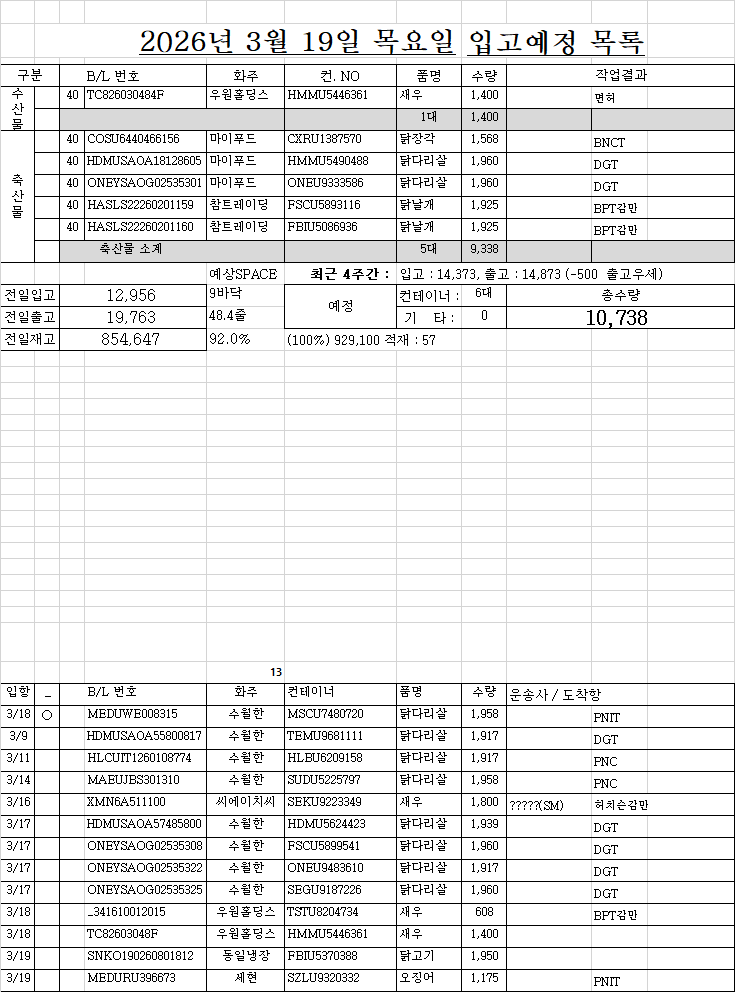
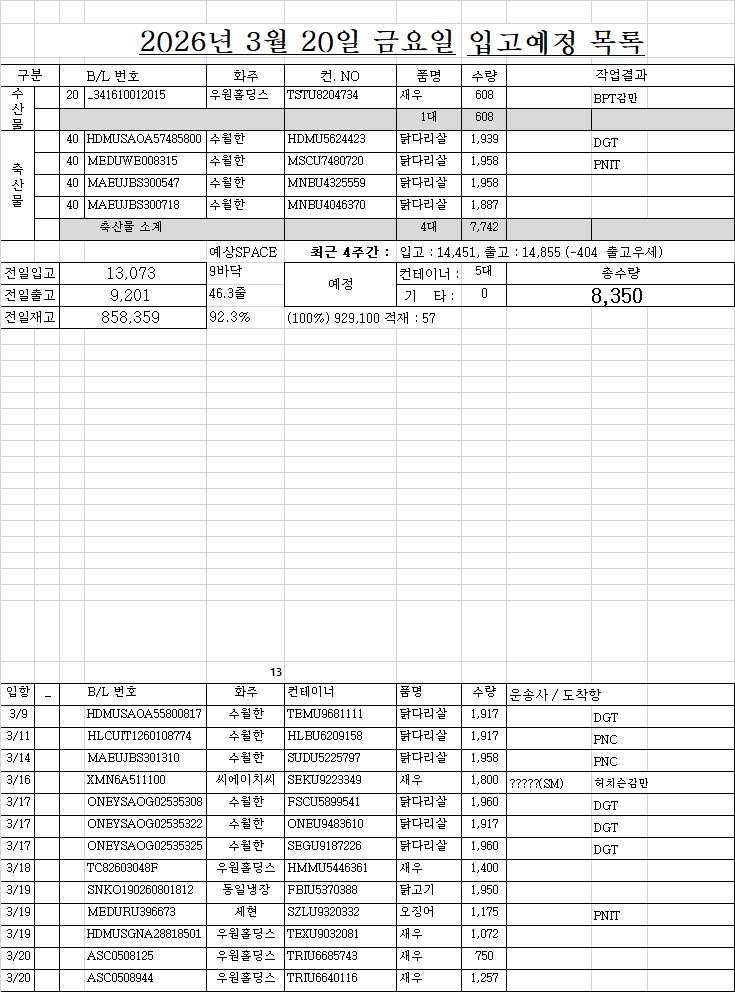
SDFSF

diff --git a/list.html b/list.html
@@ -160,46 +160,50 @@
 </div>
 <!-- ★★★★★★ 따로 빼 놔야한다. 복붙하면 첫칸 비어도 되는데, 여기서는 첫칸비우면 당겨진다. -->
 <!-- ★ 엑셀범위를 브라우저 textarea에 붙여넣으면 첫셀 비어도 제대로 되는데... HTML에 붙여놓은 자료는 처음셀이 비어있으면 당겨짐 -->
-<div class="d-none" id="원본text_리스트1부터w요약열까지">작성	면허	B/LNO.	화주	컨테이너NO.	품명	수량	반입NO.	입항일	구분	도착일	도착시간	구분	운.도VBA	03/18 수 16:30	화찰BL	화찰 선명	화물관리번호	화찰수량	화찰중량	화찰입항	리스트시트기준열	
-1	○	TC826030484F	우원홀딩스	HMMU5446361	새우	1,400 	면허	3/18	1						TC826030484F	HYUNDAI DYNASTY	26HDMUA139I-7021-0001	1,400 	15,680.00 	2026.03.18	03/18 수 16:30	
-1	○	COSU6440466156	마이푸드	CXRU1387570	닭장각	1,568 	BNCT	3/17	2				BNCT	(주)이지트랜스, CY : 동원글로벌터미널부산(주), 컨진행 : 보세운송 신고 수리, 선사 : 코스코쉬핑한국(주)	COSU6440466156	QI YUN HE	26COHEY530I-9018-	1,568 	24,304.00 	2026.03.17	조회정보	3줄
-1	○	HDMUSAOA18128605	마이푸드	HMMU5490488	닭다리살	1,960 	DGT	3/17	2				DGT	(주)이지트랜스, CY : 동원글로벌터미널부산(주), 컨진행 : 보세운송 신고 수리, 선사 : 오션네트워크익스프레스코리아(주)	HDMUSAOA18128605	MOL EARNEST	26ONEY0337I-7013-	1,960 	24,500.00 	2026.03.17	적재	57
-1	○	ONEYSAOG02535301	마이푸드	ONEU9333586	닭다리살	1,960 	DGT	3/17	2				DGT	(주)이지트랜스, CY : 동원글로벌터미널부산(주), 컨진행 : 반입완료, 선사 : 오션네트워크익스프레스코리아(주)	ONEYSAOG02535301	MOL EARNEST	26ONEY0337I-5107-	1,960 	24,500.00 	2026.03.17	4,617 	3줄
-1	○	HASLS22260201159	참트레이딩	FSCU5893116	닭날개	1,925 	BPT감만	3/18	2				BPT감만	면허?, CY : 신선대감만터미널(주) 감만CY, 컨진행 : 하선신고 수리완료, 선사 : 장금상선(주)	HASLS22260201159	KWANGYANG VOYAGER	26SNKO0993I-2234-	1,925 	24,640.00 	2026.03.18	6,156 	4줄
-1	○	HASLS22260201160	참트레이딩	FBIU5086936	닭날개	1,925 	BPT감만	3/18	2				BPT감만	면허?, CY : 신선대감만터미널(주) 감만CY, 컨진행 : 하선신고 수리완료, 선사 : 장금상선(주)	HASLS22260201160	KWANGYANG VOYAGER	26SNKO0993I-2235-	1,925 	24,640.00 	2026.03.18	7,695 	5줄
-2	○	MEDUWE008315	수월한	MSCU7480720	닭다리살	1,958 	PNIT	3/18	2				PNIT	천일정기화물자동차(주), CY : 부산신항국제터미널(주), 컨진행 : 보세운송 신고 수리, 선사 : 엠에스씨코리아(주)	MEDUWE008315	MSC VALENTINA	26MSCU6061I-0024-	1,958 	24,583.44 	2026.03.18	9,234 	6줄
-		HDMUSAOA55800817	수월한	TEMU9681111	닭다리살	1,917 	DGT	3/9	2				DGT	면허?, CY : 동원글로벌터미널부산(주), 컨진행 : 반입완료, 선사 : 오션네트워크익스프레스코리아(주)	HDMUSAOA55800817	REN JIAN 20	26ONEY0299I-7028-	1,917 	23,962.50 	2026.03.09	구분	대수
-		HLCUIT1260108774	수월한	HLBU6209158	닭다리살	1,917 	PNC	3/11	2				PNC	면허?, CY : 부산신항만(주)자유무역지역, 컨진행 : 반입완료, 선사 : 한국머스크(주)	HLCUIT1260108774	UTE	26MAEU0149I-7020-	1,917 	23,962.50 	2026.03.11	출고/입고 4주간	19
-		MAEUJBS301310	수월한	SUDU5225797	닭다리살	1,958 	PNC	3/14	2				PNC	면허?, CY : 부산신항만(주)자유무역지역, 컨진행 : 반입완료, 선사 : 한국머스크(주)	MAEUJBS301310	REN JIAN 15	26MAEU0158I-1251-	1,958 	24,450.72 	2026.03.14	1일 7/5	5일줄
-		XMN6A511100	씨에이치씨	SEKU9223349	새우	1,800 	?????(SM).허치슨감만	3/16	1	SM			?????(SM).허치슨감만			PEGASUS DREAM					14,657 	47.6
-		HDMUSAOA57485800	수월한	HDMU5624423	닭다리살	1,939 	DGT	3/17	2				DGT	면허?, CY : 동원글로벌터미널부산(주), 컨진행 : 반입완료, 선사 : 오션네트워크익스프레스코리아(주)	HDMUSAOA57485800	MOL EARNEST	26ONEY0337I-7011-	1,939 	24,255.04 	2026.03.17	14,369 	46.7
-		ONEYSAOG02535308	수월한	FSCU5899541	닭다리살	1,960 	DGT	3/17	2				DGT	면허?, CY : 동원글로벌터미널부산(주), 컨진행 : 반입완료, 선사 : 오션네트워크익스프레스코리아(주)	ONEYSAOG02535308	MOL EARNEST	26ONEY0337I-5114-	1,960 	24,500.00 	2026.03.17	내국제외	
-		ONEYSAOG02535322	수월한	ONEU9483610	닭다리살	1,917 	DGT	3/17	2				DGT	면허?, CY : 동원글로벌터미널부산(주), 컨진행 : 반입완료, 선사 : 오션네트워크익스프레스코리아(주)	ONEYSAOG02535322	MOL EARNEST	26ONEY0337I-5128-	1,917 	23,962.50 	2026.03.17	구분	대수
-		ONEYSAOG02535325	수월한	SEGU9187226	닭다리살	1,960 	DGT	3/17	2				DGT	면허?, CY : 동원글로벌터미널부산(주), 컨진행 : 반입완료, 선사 : 오션네트워크익스프레스코리아(주)	ONEYSAOG02535325	MOL EARNEST	26ONEY0337I-5131-	1,960 	24,500.00 	2026.03.17	수산	25
-		_341610012015	우원홀딩스	TSTU8204734	새우	608 	BPT감만	3/18	1			20 	BPT감만			YM CERTAINTY					축산	2/13
-		TC82603048F	우원홀딩스	HMMU5446361	새우	1,400 		3/18	1			40 									합계	69 
-		SNKO190260801812	동일냉장	FBIU5370388	닭고기	1,950 		3/19	2												7,695 	5줄
-		MEDURU396673	세현	SZLU9320332	오징어	1,175 	PNIT	3/19	1				PNIT			ONE SERENITY					화주별 요약	
-		HASLS22260202033	뉴아시아	FBIU5088899	닭날개	1,925 		3/21	2												화주	대수
+<div class="d-none" id="원본text_리스트1부터w요약열까지">작성	면허	B/LNO.	화주	컨테이너NO.	품명	수량	반입NO.	입항일	구분	도착일	도착시간	구분	운.도VBA	03/19 목 16:26	화찰BL	화찰 선명	화물관리번호	화찰수량	화찰중량	화찰입항	리스트시트기준열	
+1		_341610012015	우원홀딩스	TSTU8204734	새우	608 	BPT감만	3/18	1			20 	BPT감만			YM CERTAINTY					03/19 목 16:26	
+1		HDMUSAOA57485800	수월한	HDMU5624423	닭다리살	1,939 	DGT	3/17	2				DGT	면허?, CY : 동원글로벌터미널부산(주), 컨진행 : 반입완료, 선사 : 오션네트워크익스프레스코리아(주)	HDMUSAOA57485800	MOL EARNEST	26ONEY0337I-7011-	1,939 	24,255.04 	2026.03.17	조회정보	3줄
+1	○	MEDUWE008315	수월한	MSCU7480720	닭다리살	1,958 	PNIT	3/18	2	3/19	11:19		PNIT	천일정기화물자동차(주), CY : 부산신항국제터미널(주), 컨진행 : 반출완료, 선사 : 엠에스씨코리아(주)	MEDUWE008315	MSC VALENTINA	26MSCU6061I-0024-	1,958 	24,583.44 	2026.03.18	적재	57
+1	○	MAEUJBS300547	수월한	MNBU4325559	닭다리살	1,958 		3/11	2	3/19	16:42			(주)한타특수운송, CY : 부산신항만(주)자유무역지역, 컨진행 : 반출완료, 선사 : 벤라인에이전시즈코리아	MAEUJBS300547	X-PRESS CASSIOPEIA	26XPRS2609I-1183-	1,958 	24,492.69 	2026.03.11	4,617 	3줄
+1	○	MAEUJBS300718	수월한	MNBU4046370	닭다리살	1,887 		3/11	2	3/19	16:39			(주)한타특수운송, CY : 부산신항만(주)자유무역지역, 컨진행 : 반출완료, 선사 : 벤라인에이전시즈코리아	MAEUJBS300718	X-PRESS CASSIOPEIA	26XPRS2609I-1185-	1,887 	23,691.84 	2026.03.11	6,156 	4줄
+		HDMUSAOA55800817	수월한	TEMU9681111	닭다리살	1,917 	DGT	3/9	2				DGT	면허?, CY : 동원글로벌터미널부산(주), 컨진행 : 반입완료, 선사 : 오션네트워크익스프레스코리아(주)	HDMUSAOA55800817	REN JIAN 20	26ONEY0299I-7028-	1,917 	23,962.50 	2026.03.09	7,695 	5줄
+		HLCUIT1260108774	수월한	HLBU6209158	닭다리살	1,917 	PNC	3/11	2				PNC	면허?, CY : 부산신항만(주)자유무역지역, 컨진행 : 반입완료, 선사 : 한국머스크(주)	HLCUIT1260108774	UTE	26MAEU0149I-7020-	1,917 	23,962.50 	2026.03.11	9,234 	6줄
+		MAEUJBS301310	수월한	SUDU5225797	닭다리살	1,958 	PNC	3/14	2				PNC	면허?, CY : 부산신항만(주)자유무역지역, 컨진행 : 반입완료, 선사 : 한국머스크(주)	MAEUJBS301310	REN JIAN 15	26MAEU0158I-1251-	1,958 	24,450.72 	2026.03.14	구분	대수
+		XMN6A511100	씨에이치씨	SEKU9223349	새우	1,800 	?????(SM).허치슨감만	3/16	1	SM			?????(SM).허치슨감만			PEGASUS DREAM					출고/입고 4주간	19
+		ONEYSAOG02535308	수월한	FSCU5899541	닭다리살	1,960 	DGT	3/17	2				DGT	면허?, CY : 동원글로벌터미널부산(주), 컨진행 : 반입완료, 선사 : 오션네트워크익스프레스코리아(주)	ONEYSAOG02535308	MOL EARNEST	26ONEY0337I-5114-	1,960 	24,500.00 	2026.03.17	1일 7/5	5일줄
+		ONEYSAOG02535322	수월한	ONEU9483610	닭다리살	1,917 	DGT	3/17	2				DGT	면허?, CY : 동원글로벌터미널부산(주), 컨진행 : 반입완료, 선사 : 오션네트워크익스프레스코리아(주)	ONEYSAOG02535322	MOL EARNEST	26ONEY0337I-5128-	1,917 	23,962.50 	2026.03.17	15,383 	50
+		ONEYSAOG02535325	수월한	SEGU9187226	닭다리살	1,960 	DGT	3/17	2				DGT	면허?, CY : 동원글로벌터미널부산(주), 컨진행 : 반입완료, 선사 : 오션네트워크익스프레스코리아(주)	ONEYSAOG02535325	MOL EARNEST	26ONEY0337I-5131-	1,960 	24,500.00 	2026.03.17	14,360 	46.7
+		TC82603048F	우원홀딩스	HMMU5446361	새우	1,400 		3/18	1			40 									내국제외	
+		SNKO190260801812	동일냉장	FBIU5370388	닭고기	1,950 		3/19	2												구분	대수
+		MEDURU396673	세현	SZLU9320332	오징어	1,175 	PNIT	3/19	1				PNIT			ONE SERENITY					수산	28
+		HDMUSGNA28818501	우원홀딩스	TEXU9032081	새우	1,072 		3/19	1			20 									축산	2/13
+		ASC0508125	우원홀딩스	TRIU6685743	새우	750 		3/20	1			20 									합계	72 
+		ASC0508944	우원홀딩스	TRIU6640116	새우	1,257 		3/20	1			20 									7,695 	5줄
+		HASLS22260202033	뉴아시아	FBIU5088899	닭날개	1,925 		3/21	2												화주별 요약	
+		MAEU263401974	대상 주식회사	MNBU0271114	닭발	1,567 		3/21	2												화주	대수
 		HDMUSAOA56206805	수월한	HMMU5448220	닭다리살	1,917 	HPNT	3/21	2				HPNT			HMM CLOVER					수월한	19
-		HDMUSAOA87353703	수월한	HMMU5458779	닭다리살	1,917 	HPNT	3/21	2				HPNT			HMM CLOVER					세현	8
+		HDMUSAOA87353703	수월한	HMMU5458779	닭다리살	1,917 	HPNT	3/21	2				HPNT			HMM CLOVER					세현	9
 		ONEYSCLG02763500	아이씨코퍼	ONEU9354681	연어	868 	PNIT	3/21	1				PNIT			MANZANILLO EXPRESS					삼영수산	8
-		MAEUJBS300725	이마트	MNBU3588308	계육		PNC	3/21	2				PNC			GRASMERE MAERSK					이마트	7
-		MAEUJBS301637	이마트	MNBU3858023	닭다리		PNC	3/21	2				PNC			GRASMERE MAERSK					마이푸드	5
-		MEDUHI654086	아스트로스	MEDU9120782	닭발	1,500 	PNIT	3/22	2				PNIT			SANTA LORETTA					아스트로스	5
-		HDMUSAOA60395300	이마트	HMMU5486282	닭다리		DGT	3/22	2				DGT			HYUNDAI INTEGRAL(SX2)					뉴아시아	4
-		HDMUSAOA62547000	이마트	HMMU5515020	닭다리		DGT	3/22	2				DGT			HYUNDAI INTEGRAL(SX2)					씨케이글로벌	4
-		COSU6439827323	뉴아시아	SZLU9682199	닭다리살	1,960 	BNCT	3/23	2				BNCT			COSCO PRIDE					우원홀딩스	3
-		COSU6439827324	뉴아시아	SEGU9980570	닭다리살	1,960 	BNCT	3/23	2				BNCT			COSCO PRIDE					참트레이딩	3
-		COSU6439827325	뉴아시아	FBIU5465061	닭다리살	1,960 	BNCT	3/23	2				BNCT			COSCO PRIDE					씨에이치씨	1
-		COSU6439835643	마이푸드	FBIU5015151	닭다리살	1,960 	BNCT	3/23	2				BNCT			COSCO PRIDE					동일냉장	1
-		COSU6439835646	마이푸드	OERU4289713	닭다리살	1,960 	BNCT	3/23	2				BNCT			COSCO PRIDE					아이씨코퍼	1
-		COSU6439835640	수월한	TEMU9356220	닭다리살	1,960 	BNCT	3/23	2				BNCT			COSCO PRIDE					합계	69
+		HDMUSAOA73164600	오케이푸드	HMMU5521573	닭다리살	1,939 		3/21	2												이마트	7
+		HDMUSAOA80829200	오케이푸드	HDMU5619258	닭다리살	1,958 		3/21	2												뉴아시아	6
+		MAEUJBS300725	이마트	MNBU3588308	계육		PNC	3/21	2				PNC			GRASMERE MAERSK					우원홀딩스	5
+		MAEUJBS301637	이마트	MNBU3858023	닭다리		PNC	3/21	2				PNC			GRASMERE MAERSK					아스트로스	5
+		MEDUHI654086	아스트로스	MEDU9120782	닭발	1,500 	PNIT	3/22	2				PNIT			SANTA LORETTA					씨케이글로벌	4
+		HDMUSAOA60395300	이마트	HMMU5486282	닭다리		DGT	3/22	2				DGT			HYUNDAI INTEGRAL(SX2)					오케이푸드	2
+		HDMUSAOA62547000	이마트	HMMU5515020	닭다리		DGT	3/22	2				DGT			HYUNDAI INTEGRAL(SX2)					마이푸드	2
+		COSU6439827323	뉴아시아	SZLU9682199	닭다리살	1,960 	BNCT	3/23	2				BNCT			COSCO PRIDE					씨에이치씨	1
+		COSU6439827324	뉴아시아	SEGU9980570	닭다리살	1,960 	BNCT	3/23	2				BNCT			COSCO PRIDE					동일냉장	1
+		COSU6439827325	뉴아시아	FBIU5465061	닭다리살	1,960 	BNCT	3/23	2				BNCT			COSCO PRIDE					대상 주식회사	1
+		COSU6439835643	마이푸드	FBIU5015151	닭다리살	1,960 	BNCT	3/23	2				BNCT			COSCO PRIDE					아이씨코퍼	1
+		COSU6439835646	마이푸드	OERU4289713	닭다리살	1,960 	BNCT	3/23	2				BNCT			COSCO PRIDE					참트레이딩	1
+		COSU6439835640	수월한	TEMU9356220	닭다리살	1,960 	BNCT	3/23	2				BNCT			COSCO PRIDE					합계	72
 		COSU6440466155	수월한	OERU4312454	닭다리살	1,917 	BNCT	3/23	2				BNCT			COSCO PRIDE						
 		COSU6440466159	수월한	SEGU9518936	닭다리살	1,960 	BNCT	3/23	2				BNCT			COSCO PRIDE						
 		COSU6442191940	수월한	FBIU5509771	닭다리살	1,960 	BNCT	3/23	2				BNCT			COSCO PRIDE						
 		KMTCSUB2471360	씨케이글로벌	BMOU9233556	새우	1,800 		3/23	1													
 		KMTCSUB2472378	씨케이글로벌	SEGU9327441	새우	1,800 		3/23	1													
+		SNKO190260300265	뉴아시아	FBIU5373875	닭날개	1,950 		3/25	2													
+		SNKO190260300668	뉴아시아	SKRU6507700	닭날개	1,940 		3/25	2													
 		HLCULI3260218091	세현	TCLU1188884	오징어	1,175 	PNIT	3/25	1				PNIT			SEASPAN BEACON						
 		MEDURU385445	세현	TTNU8126457	오징어	1,175 	PNIT	3/25	1				PNIT			SEASPAN BEACON						
 		MEDURU386153	세현	MSGU9182205	오징어	1,175 	PNIT	3/25	1				PNIT			SEASPAN BEACON						
@@ -217,14 +221,13 @@
 		HLCULI3260235315	삼영수산	HLBU9671025	오징어	1,100 		4/8	1							RDO ACE						
 		HLCULI3260235370	삼영수산	HLBU9416586	오징어	1,100 		4/8	1							RDO ACE						
 		HLCULI3260235370	삼영수산	TEMU9838920	오징어	1,100 		4/8	1							RDO ACE						
+		HLCULI3260222281	세현	TCLU1039704	오징어	1,175 		4/9	1													
 		MEDURU427148	세현	TEMU9314420	오징어	1,175 		4/9	1													
 		SSZ1742400	아스트로스	TTNU8775902	닭발	1,500 		4/10	2							CMA CGM BALI						
 		LMM0576989	삼영수산	SZLU5078410	오징어	1,100 		4/18	1													
 		LMM0576989	삼영수산	SZLU5081918	오징어	1,100 		4/18	1													
 		LMM0578990	삼영수산	TEMU9420669	오징어	1,100 		4/18	1													
 		LMM0578990	삼영수산	CGMU9399722	오징어	1,100 		4/18	1													
-		MAEUJBS300547	수월한	MNBU4325559	닭다리살	1,958 			2													
-		MAEUJBS300718	수월한	MNBU4046370	닭다리살	1,887 			2													
 		MEDUR3041635	이마트	TTNU8350929	닭다리			미정	2							MSC AINO						
 		MEDUWE038221	이마트	TTNU8089081	닭다리			미정	2							MSC AINO						
 		MEDUFX960938	수월한	MEDU9109741	닭다리살	1,917 	???		2				천일정기화물.PNIT			MSC BREMERHAVEN V						

diff --git a/excel.html b/excel.html
@@ -106,19 +106,21 @@
     <div class="개별카테고리" id="통합적용">
       <span class="개별카테고리세로1"></span><span class="개별카테고리세로2"></span>
       <div>
-        <h6 class="fw-bold" title="성능과배열첫정보">성능, 배열첫정보</h6>
+        <h6 class="fw-bold" title="성능과배열첫정보">성능, 배열첫정보, Dictionary → Collection → Array</h6>
         <h6 class="fw-bold blueviolet" title="객체와SET과NEW">자료형 중에서 Object(객체), Set 과 New, 변수의 Type 확인</h6>
         <h6 class="fw-bold blueviolet" title="객체심화">자료형으로써 객채 심화, 폼, 클래스모듈도 객체 (일반모듈은 아님)</h6>
         <h6 class="fw-bold" title="계층관련메모">계층 관련 메모, 네이밍, 계층, 구조는 같이 보임</h6>
         <h6 class="fw-bold" title="구조표현관련메모">구조표현 관련 메모, 큰틀 → 세부적인 틀 ... </h6>
         <h6 class="fw-bold" title="네이밍참고">네이밍 관련 메모, 네이밍, 계층, 구조는 같이 보임</h6>
         <h6 class="fw-bold" title="기능중심불핌요함수생성예시">기능중심 → 불필요한 함수 생성 → 복잡도 증가 예시 </h6>
+        <h6 class="fw-bold blueviolet" title="딕셔너리사용법">★ 딕셔너리 사용법 ★</h6>
+        <h6 class="fw-bold blueviolet" title="딕셔너리엔진만든거">★ 딕셔너리 생성 함수 만든거 FN_SelfDicBuild ★</h6>
         <h6 class="fw-bold blueviolet" title="딕셔너리디버깅코드">★ 딕셔너리 디버깅 코드 ★</h6>
-        <h6 class="fw-bold blueviolet" title="딕셔너리엔진만든거">★ 딕셔너리 엔진 만든거 FN_DictBuild, Dictionary → Collection → Array ★</h6>
+       
         <h6 class="fw-bold blueviolet" title="딕셔너리엔진진짜는이거">★ 딕셔너리 새로 만들고 있음 ★</h6>
         <h6 class="fw-bold" title="딕셔너리후속필요해질4종">★ 딕셔너리 활용 확장 : 딕셔너리를 만들면 반드시 필요해질거라고 하는 4종 챗gpt ★ </h6>
         <h6 class="fw-bold" title="콜랙션을2DArray로변환">★ 딕셔너리에 있는 콜랙션을 2DArray로 변환 → 시트,폼에 뿌림★ </h6>
-        <h6 class="fw-bold blueviolet" title="딕셔너리사용법">1) 딕셔너리 사용법. 엑셀은 궁극적으로 Dictionary → Collection → Array</h6>
+        
 
 
       </div>
@@ -1028,66 +1030,52 @@ End Function
       </div>
     </div>
     <div id="딕셔너리엔진만든거" class="대체3줄">
+      <h6 class="fw-bold">● 여러 용도로 딕셔너리를 만드는 함수 : Function FN_Self_DictBuild(picSt As String, Key1 As Long, key2 As Long, key3 As Long, outputSt As String, ParamArray ItemCols()) As Object</h6>
       <h6 class="대체3줄세로1h6"></h6><h6 class="대체3줄세로2h6"></h6>
       <div>
-        <h6 class="fw-bold">새롭게 느낀점. ⓐ ⓑ ⓒ ⓓ ⓔ ⓕ  ① ② ③ ④ ⑤ ⑮ ※ ★ ● • </h6>
-        <h6 class="fw-bold blueviolet">● 함수의 호출순서대로 서로 알지 못해야 한다. 독립성. 함수추가 유연성.</h6>
-        <h6 class="fw-bold blueviolet">● Dictionary → Collection → Array, 구조 및 디버깅</h6>
-        <h6 class="fw-bold">● 딕셔너리 구성 : 시작시 필요한 자료. <span class="blueviolet 단어색칠" 
-          onclick="전체변수h6title ='딕셔너리사용법';전체대체에셑팅();">딕셔너리 사용법 Click!</span> </h6>
+        <h6 class="fw-bold">● 인수의 의미와 역할 설명</h6>
         <pre class="fw-bold">
+1. picSt : 정보를 가져오는 시트 
+2. key1, key2, key3 : 하나를 쓰는 경우가 대부분이지만 확장성 측면에서 3개를 넣어둠 
+3. outputSt : BL개수구할때, 날짜표현형식 구할때 
+4. ItemCols : 함수호출시 인수만큼의 의미, Item 으로 Collection 넣은후 
+   Collection 내부에 add 할 Array 관련 정보이다. 
 
-
-<span class="blueviolet">지금 작성하신 FN_DictReturn은 사실 일반 Dictionary 함수가 아니라
-VBA에서 굉장히 유명한 패턴인 MultiMap Builder 입니다.</span></pre>
-        <h6 class="fw-bold blueviolet">● 함수는 많은데 구조가 없다</h6>
+<span class="blueviolet">[가장 단순한 함수호출 인수 예시]</span>
+FN_Self_DictBuild("리스트",5,0,0,"") : 컨번호 출현횟수 d(key).count, 컬랙션 개수</pre>
+        <h6 class="fw-bold">● ItemCols 에 입력되는 인수들의 의미와 사용처</h6>
         <pre class="fw-bold">
-많은 VBA 프로젝트가 실패하는 이유가 바로 이것입니다.
-그래서 먼저 전체 라이브러리 구조도를 보여드리겠습니다.
+    <span class="blueviolet">[outputSt 와 관계없이, 배열의 현재위치에 담을 값]</span>
+    1. 0 → Array의 자신의 위치에 아무 값도 넣지 않음, 시트 출력시 공백
+    2. IS > 0 : vData의 현재 row 의 column을 담아라는 의미 
+    3. "행값" : 순회중인 vData 의 반복값 = 원본시트의 row
+    4. "면허" : vData(r, 15), picSt가 "리스트"일때 쓴다. 
+        15 이지만, 값을 가공해야하므로 인식하기 쉽게 지정하였다. 
+    5. "색상" : vData(r, key1)에 해당하는 실제 시트.cells((r, key1) 의 셀 색상 
+    6. "작업미정" : "작업미정"아라고 입력한다. 
+    <span class="blueviolet">7. "입항관리운송사와도착항을묶어_운도로" : "picSt = 입항관리" 
+        outputSt를 설정하지 않아도 된다. 않는다.    </span>
+       FN_ResolveOneItem = FN_입항관리운송사와도착항을묶어_운도로(vData(r, 15))
+    <span class="blueviolet">7. "구분에따른물품또는수량" : "picSt = 리스트" </span>
 
-1⃣ 전체 구조 (Excel Data Processing Library)
-[ Excel Data Processing Library ]
+    <span class="blueviolet">[outputSt 설정이 필요한 경우]</span>
 
-    ├─ System Layer
-    │    ├─ U_계산갱신이벤트_OFF
-    │    ├─ U_계산갱신이벤트_ON
-    │    └─ U_TimerStart / U_TimerEnd
-    │
-    ├─ Data Access Layer
-    │    ├─ U_A1부터조회테이블범위
-    │    ├─ U_SheetToArray
-    │    └─ U_ArrayToSheet
-    │
-    ├─ Core Container Engine
-    │    <span class="단어색칠">├─ FN_DictBuild        ← 핵심 엔진 (딕셔너리 만들기)</span> 
-    │    ├─ FN_DictToArray
-    │    └─ FN_ArrayToDict
-    │
-    ├─ Data Processing Engine
-    │    ├─ FN_DictGroupBy
-    │    ├─ FN_DictJoin
-    │    ├─ FN_DictFilter
-    │    ├─ FN_DictSort
-    │    └─ FN_DictAggregate
-    │
-    ├─ Policy / Resolver Layer
-    │    ├─ FN_ItemResolve
-    │    ├─ FN_ResolveColor
-    │    ├─ FN_ResolveRow
-    │    ├─ FN_ResolveDate
-    │    └─ FN_ResolveColumn
-    │
-    ├─ Domain Logic Layer
-    │    └─ U_FN_상세내용날짜또는미정Return
-    │
-    └─ Debug / Inspection Layer
-         ├─ U_DebugDumpDict
-         ├─ U_DebugDumpCollection
-         └─ U_DebugDumpArray
+       
+
         </pre>
-      </div>
-      <div>
-        <h6 class="fw-bold"><h6 class="fw-bold blueviolet">● 딕셔너리 만드는 함수, 재사용을 고려하여 작성. ParamArray ItemCols() </h6>
+        <h6 class="fw-bold">● FN_SelfDicBuild 인수역할과 네이밍 의미</h6>
+        <pre class="fw-bold">
+[시그니처 : IsDate(날짜또는미정)]          
+        </pre>
+
+
+
+
+
+
+
+        <br><br><br><br><br><br><br><br>
+        <h6 class="fw-bold blueviolet">● 딕셔너리 만드는 함수, 재사용을 고려하여 작성. ParamArray ItemCols() </h6>
         <pre class="fw-bold">
 Function FN_DictReturn(stName As String, KeyCol As Long, _
                        ParamArray ItemCols()) As Object
@@ -1520,6 +1508,8 @@ Sheet데이터읽기        ← Repository
       <div>
         <h6 class="fw-bold">함수 네이밍 참고 모음 </h6>
         <pre class="fw-bold">
+ouputSheet,PicSheet
+
 추천 네이밍 규칙
 [데이터종류] + [자료구조]
 
@@ -2239,9 +2229,6 @@ Dictionary
       Sheet → Array → Dictionary 그룹화 → Collection 저장 → Array 가공하여 컬랙션에 Add
       → 2D Array 반환 → Sheet 출력, 이게 VBA 데이터 처리의 정석 구조입니다.
       <span class="blueviolet">※ 2D Array 반환 부분이 중요, 정보를 뿌릴때 거의 이 구조이다.</span>
-
-1 
-         - 위에서 배열크기를 구해놓고, 배열이 비어있으면 배열크기 = 0 이니 참고
 
 6⃣ VBA 고수들이 거의 항상 쓰는 패턴 (일반, 구현난이도 쉬움, 넣기만 하면 됨)
       데이터 저장 : Dictionary

diff --git a/portal/assets/js/excel_코드점검.js b/portal/assets/js/excel_코드점검.js
@@ -1,6 +1,6 @@
 let 전체변수h6title='';
 function 특정id편집() {
-  전체변수h6title ='딕셔너리엔진진짜는이거' //원래는 h6의 title이다.
+  전체변수h6title ='딕셔너리엔진만든거' //원래는 h6의 title이다.
   전체대체에셑팅();
 }
 function 이동배치(요소의타이틀,배치요소아이디) {
